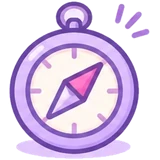
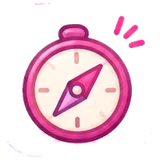
Agenda: íconos nuevos de Jennifer para Recursos de Rosina, corazón, play, portátil, 123, brújula, disquete y flecha del menú; auditoría del ecosistema Google (#518)
Claude-Session: https://claude.ai/code/session_01U9SAsfVct6L94yoocG63si

diff --git a/js/agenda/iconos.js b/js/agenda/iconos.js
@@ -45,7 +45,7 @@
   /* Íconos dibujados por Sara (31-oct-2026) para los botones de acción: si la acción tiene dibujo se usa la imagen; las demás siguen con el ícono de línea */
   var IMG = { papelera: 'eliminar', mas: 'agregar', imprimir: 'imprimir', bajar: 'descargar', subir: 'subir', calendario: 'calendario', mic: 'dictar', lapiz: 'lapiz', nube: 'nube', lupa: 'buscar', reloj: 'reloj', alerta: 'alerta', moneda: 'moneda', candado: 'candado', borrador: 'borrador', deshacer: 'deshacer', paleta: 'paleta', camara: 'camara', estrella: 'estrella', sol: 'bombilla', config: 'config-centrado', etiqueta: 'promo', hoja: 'documento', llave: 'gancho', ovillo: 'ovillo', regalo: 'regalo', camion: 'camion', caja: 'camion', grafica: 'grafica', recibo: 'recibo', bolsa: 'bolsa', casa: 'casa', tarjeta: 'tarjeta', calculadora: 'calculadora', diana: 'diana', contactos: 'contactos', libro: 'libro', camisa: 'camisa', tendencia: 'tendencia', bandera: 'bandera', persona: 'persona', globo: 'globo', birrete: 'birrete', flor: 'flor', corazon: 'corazon', play: 'play', portatil: 'portatil', numeral: 'numeral', brujula: 'brujula', disco: 'disco' };
   function svg(nombre, grande) {
-    if (IMG[nombre] && !grande) { var im = document.createElement('img'); im.src = '/img/agenda/menu/btn-' + IMG[nombre] + '.webp?v=8'; im.className = 'ic-l ic-img'; im.dataset.ic = nombre; im.alt = ''; im.setAttribute('aria-hidden', 'true'); im.width = 28; im.height = 28; im.decoding = 'async'; return im; }
+    if (IMG[nombre] && !grande) { var im = document.createElement('img'); im.src = '/img/agenda/menu/btn-' + IMG[nombre] + '.webp?v=9'; im.className = 'ic-l ic-img'; im.dataset.ic = nombre; im.alt = ''; im.setAttribute('aria-hidden', 'true'); im.width = 28; im.height = 28; im.decoding = 'async'; return im; }
     var s = document.createElementNS('http://www.w3.org/2000/svg', 'svg'); s.setAttribute('viewBox', '0 0 24 24'); s.setAttribute('class', 'ic-l' + (grande ? ' ic-l-g' : '')); s.setAttribute('data-ic', nombre); s.setAttribute('aria-hidden', 'true'); s.setAttribute('focusable', 'false');
     var p = document.createElementNS('http://www.w3.org/2000/svg', 'path'); p.setAttribute('d', P[nombre]); s.appendChild(p); return s;
   }
@@ -93,6 +93,6 @@
   /* de(texto): el ícono de línea que corresponde al emoji con que empieza un texto (para las tarjetas de la vista de sección); si no hay, el de «hoja» */
   /* Íconos dibujados de las hojas (31-oct-2026, diseño de Sara): hoja(id, texto) devuelve el dibujo de la hoja o, si aún no lo tiene, el ícono de línea */
   var HOJAS_IMG = { 'indice-agenda': 1, 'planeador-dia': 1, 'portada-agenda': 1, 'aprende-compra': 1, 'panel-agenda': 1, 'tablero-agenda': 1, 'vision-anio': 1, 'prioridades-mes': 1, 'ficha-proyecto': 1, 'semana-tejiendo': 1, 'proyectos-fila': 1, 'coleccion-patrones': 1, 'anio-tejiendo': 1, 'lo-que-aprendi': 1, 'mis-ideas': 1, 'disena-patron': 1, 'prendas-medida': 1, 'hoja-puntos': 1, 'inventario-lanas': 1, 'lista-compras': 1, 'control-pedidos': 1, 'mis-clientas': 1, 'ventas-mes': 1, 'catalogo-precios': 1, 'ferias-mercados': 1, 'contactos': 1, 'gastos-negocio': 1, 'mis-agujas': 1, 'recursos-rosina': 1, 'fin-negocio': 1, 'fin-resumen': 1, 'fin-movimientos': 1, 'fin-presupuesto': 1, 'fin-fijos': 1, 'fin-tcredito': 1, 'fin-analisis': 1, 'calendario-anual': 1, 'fechas-especiales': 1, 'diario-tejido': 1, 'registro-pausas': 1 };
-  function hoja(id, texto) { if (HOJAS_IMG[id]) { var im = document.createElement('img'); im.src = '/img/agenda/hojas/' + id + '.webp?v=5'; im.alt = ''; im.className = 'ic-hoja'; im.width = 56; im.height = 56; im.setAttribute('aria-hidden', 'true'); im.decoding = 'async'; return im; } return window.lrIconos.de(texto); }
+  function hoja(id, texto) { if (HOJAS_IMG[id]) { var im = document.createElement('img'); im.src = '/img/agenda/hojas/' + id + '.webp?v=6'; im.alt = ''; im.className = 'ic-hoja'; im.width = 56; im.height = 56; im.setAttribute('aria-hidden', 'true'); im.decoding = 'async'; return im; } return window.lrIconos.de(texto); }
   window.lrIconos = { hoja: hoja, pasada: pasada, por: function (n) { return svg(P[n] ? n : 'hoja', false); }, de: function (t) { var m = String(t || '').match(RE); var n = m && DE[clave(m[2])]; return svg(n && !QUITAR[clave(m[2])] ? n : 'hoja', false); } };
 })();

diff --git a/agenda-rosina.html b/agenda-rosina.html
@@ -65,7 +65,7 @@ j=d.createElement(s),dl=l!='dataLayer'?'&l='+l:'';j.async=true;j.src=
 <link rel="stylesheet" href="/css/agenda-movil.css?v=18">
 <link rel="stylesheet" href="/css/agenda-idioma.css?v=2">
 <link rel="stylesheet" href="/css/agenda-pantalla.css?v=11">
-<link rel="stylesheet" href="/css/agenda-menu.css?v=2">
+<link rel="stylesheet" href="/css/agenda-menu.css?v=3">
 <style>
 :root {
   --rosa-principal: #E74E96; --rosa-medio: #F28FC0; --rosa-suave: #FBE4EF;
@@ -4298,7 +4298,7 @@ import { haySesionGuardada, obtenerCliente } from '/js/cuenta.js';
 <script src="/js/agenda/voz.js?v=4" defer></script>
 <script src="/js/agenda/color-casilla.js?v=1" defer></script>
 <script src="/js/agenda/recursos-datos.js?v=3" defer></script>
-<script src="/js/agenda/recursos.js?v=7" defer></script>
+<script src="/js/agenda/recursos.js?v=8" defer></script>
 <script src="/js/agenda/herramientas-abajo.js?v=1" defer></script>
 <script src="/js/agenda/lupa.js?v=1" defer></script>
 <script src="/js/agenda/patron.js?v=1" defer></script>
@@ -4306,9 +4306,9 @@ import { haySesionGuardada, obtenerCliente } from '/js/cuenta.js';
 <script src="/js/agenda/planeador.js?v=2" defer></script>
 <script src="/js/agenda/vacios.js?v=4" defer></script>
 <script src="/js/agenda/panel.js?v=28" defer></script>
-<script src="/js/agenda/iconos.js?v=28" defer></script>
+<script src="/js/agenda/iconos.js?v=29" defer></script>
 <script src="/js/agenda/colores-seccion.js?v=3" defer></script>
-<script src="/js/agenda/menu-lateral.js?v=2" defer></script>
+<script src="/js/agenda/menu-lateral.js?v=3" defer></script>
 <script src="/js/agenda/metas-ventas.js?v=4" defer></script>
 <script src="/js/agenda/graficas.js?v=5" defer></script>
 <script src="/js/agenda/clientas-historial.js?v=2" defer></script>

diff --git a/js/agenda/menu-lateral.js b/js/agenda/menu-lateral.js
@@ -19,7 +19,9 @@
     return ancho ? 'abierto' : 'riel';
   }
   var SVG = function (d) { return '<svg viewBox="0 0 24 24" width="20" height="20" fill="none" stroke="currentColor" stroke-width="1.8" stroke-linecap="round" stroke-linejoin="round" aria-hidden="true" focusable="false">' + d + '</svg>'; };
-  var IC_OCULTAR = SVG('<path d="M15 6l-6 6 6 6"/>'), IC_MOSTRAR = SVG('<path d="M9 6l6 6-6 6"/>'), IC_MENU = SVG('<path d="M4 7h16M4 12h16M4 17h16"/>');
+  /* la flecha es un dibujo de Jennifer (3-nov-2026); «mostrar» es la misma volteada */
+  var FLECHA = function (voltear) { return '<img class="mt-ic' + (voltear ? ' voltear' : '') + '" src="/img/agenda/menu/btn-flecha-izq.webp?v=1" alt="" width="22" height="22" aria-hidden="true" decoding="async">'; };
+  var IC_OCULTAR = FLECHA(false), IC_MOSTRAR = FLECHA(true), IC_MENU = SVG('<path d="M4 7h16M4 12h16M4 17h16"/>');
   var toggle = null, abrir = null;
   function crear() {
     if (!toggle || !nav.contains(toggle)) {

diff --git a/js/agenda/recursos.js b/js/agenda/recursos.js
@@ -18,7 +18,10 @@
     pestanas.forEach(function (b) { var on = b.dataset.rr === cual; b.setAttribute('aria-selected', String(on)); });
     hoja.querySelectorAll('.rr-panel').forEach(function (p) { p.hidden = p.id !== 'rr-' + cual; });
   }
-  pestanas.forEach(function (b) { b.addEventListener('click', function () { mostrar(b.dataset.rr); }); });
+  pestanas.forEach(function (b) {   /* cada pestaña lleva su dibujo (3-nov-2026, íconos de Jennifer) */
+    if (!b.querySelector('.rr-ic')) b.insertAdjacentHTML('afterbegin', '<img class="rr-ic" src="/img/agenda/recursos/rr-' + b.dataset.rr + '.webp?v=1" alt="" width="28" height="28" aria-hidden="true" decoding="async">');
+    b.addEventListener('click', function () { mostrar(b.dataset.rr); });
+  });
 
   /* ---------- glosario ---------- */
   var gl = document.getElementById('rr-glosario'), cat = 'todas', texto = '';

diff --git a/css/agenda-menu.css b/css/agenda-menu.css
@@ -30,3 +30,9 @@
 }
 @media (min-width: 821px) and (max-width: 1100px) and (min-height: 521px) { body .agenda-layout[data-menu="abierto"] { grid-template-columns: 220px minmax(0, 1fr); } }
 @media print { .menu-toggle, .menu-abrir { display: none !important; } }
+
+/* Íconos dibujados de Recursos de Rosina y la flecha del menú (3-nov-2026) */
+#recursos-rosina .rr-pestanas button { display: inline-flex; align-items: center; gap: 8px; padding-left: 12px; }
+#recursos-rosina .rr-pestanas .rr-ic { width: 28px; height: 28px; flex: none; }
+.menu-toggle .mt-ic { width: 22px; height: 22px; flex: none; }
+.menu-toggle .mt-ic.voltear { transform: scaleX(-1); }

diff --git a/herramientas/agenda-auditoria/AUDITORIA-GOOGLE.md b/herramientas/agenda-auditoria/AUDITORIA-GOOGLE.md
@@ -1,0 +1,102 @@
+# Ecosistema de integraciones con Google — auditoría y plan (3-nov-2026)
+
+Etapa **solo de auditoría y planificación**: no se modificó código, permisos, datos ni conexiones. Fuentes: código de `js/agenda/google-calendar.js`, `drive-sync.js`, `drive-merge.js`,
+las funciones `google-calendar.ts` y `google-drive.ts`, la base de Supabase (solo estructura y conteos, sin correos ni contenido) y los documentos del repositorio.
+
+**Qué no se pudo verificar desde aquí:** el comportamiento contra los servidores reales de Google (la prueba de dos aparatos con una cuenta de Google real sigue pendiente), el estado de
+publicación de la pantalla de consentimiento en Google Cloud, y las cuotas exactas vigentes. Lo que dice este documento sobre cuotas, costos y verificación de Google viene de lo
+que se conoce de la documentación pública y **debe confirmarse en la consola de Google Cloud y en la documentación oficial antes de decidir**.
+
+## 1. Auditoría de lo que ya existe
+
+### Google Calendar — estado: implementado, con una prueba real parcial
+| Aspecto | Hallazgo |
+|---|---|
+| Conexión | OAuth con permiso **no sensible** `calendar.app.created`: crea un calendario aparte «Agenda para tejedoras» y solo toca ese. El permiso se guarda **cifrado (AES-GCM)** y la función valida la sesión de cada usuaria. Desconectar borra el calendario, revoca el permiso y borra lo guardado. |
+| Qué envía | Fechas de: entrega y envío de pedidos, proyectos, fichas de proyecto, fechas especiales, cumpleaños de clientas y ferias (`window.lrAgenda.eventos()`). Eventos de todo el día con recordatorio, repetición anual si aplica. |
+| Qué NO envía | Tareas y notas del Planeador del día, clases pedidas en «Aprende y compra», diario, pausas activas, vencimientos de gastos fijos y deudas, vencimiento de la membresía. |
+| Crear / actualizar / borrar | Los tres existen (por «clave» + huella de contenido). Hay trampas de seguridad: no sincroniza una agenda sin fechas y no borra de golpe más de 3 fechas sin confirmación. La lógica está probada con función simulada (`probar_agenda_google_calendar.py`, `probar_funcion.mjs`). |
+| Evidencia real | En la base hay **1 cuenta conectada** con sincronización reciente y **2 eventos** registrados: la creación funciona en la práctica. No hay evidencia real de actualizar ni de borrar. |
+| Sentido | **Una vía** (agenda → Google). Si la persona edita un evento en Google, la próxima sincronización lo pisa si cambió en la agenda; no se lee nada de Google. |
+| Seguridad en base | Las 3 tablas de Google tienen seguridad por filas activada, **sin políticas** y sin permisos para `anon` ni `authenticated`: solo la función con llave de servicio las toca. Correcto. |
+
+Hallazgos y riesgos (de la lectura del código; ninguno comprobado en vivo):
+1. **Recordatorio mal descrito.** El texto dice «la tarde anterior», pero el recordatorio es 900 min antes de un evento de todo el día: queda a las 9:00 a. m. del día anterior.
+2. **Calendario huérfano al reconectar.** Al volver a conectar sin haber desconectado, se crea un calendario nuevo y el anterior queda en Google de la persona (verificar con una prueba real).
+3. **Tope silencioso de 300 eventos.** Lo que pase de 300 se ignora sin avisar.
+4. **Primera sincronización larga.** Cada evento es una llamada seguida; con cientos de eventos podría acercarse al tiempo máximo de la función y a límites de ritmo de Google. Los fallos se reintentan en la siguiente sincronización.
+5. **Claves por posición.** Las fechas de pedidos se identifican por el número de fila; al borrar una ficha las siguientes suben y la función las «actualiza» (no duplica, pero genera muchas llamadas).
+6. **Una sola llave para Calendar y Drive.** Los permisos de las dos conexiones se cifran con el mismo secreto (`CALENDAR_TOKEN_KEY`); conviene separarlos en algún momento.
+7. **Mensajes de error genéricos** («Algunas fechas no se pudieron sincronizar») y sin historial de la última falla.
+
+### Google Drive — estado: implementado, probado solo con Google simulado
+| Aspecto | Hallazgo |
+|---|---|
+| Conexión | OAuth con `drive.appdata` (no sensible; carpeta **oculta** de la app). La función solo consigue el permiso y entrega una llave de ~1 hora; **los datos van directo del navegador al Drive de la persona**, no pasan por nuestros servidores. |
+| Qué guarda | `agenda.json` con **toda** la agenda (incluidos los dibujos y sus fotos desde el cambio a IndexedDB) y las últimas 5 versiones. Mezcla de tres vías entre aparatos sin perder datos (30 pruebas de lógica + 39 con Drive simulado + 39 de dibujos). |
+| Recuperación | Existe: «Versiones anteriores» con «Restaurar», y «Borrar mi agenda de Drive». |
+| Excel y PDF a Drive | **No existe.** Excel, el informe del mes y los PDF se descargan al dispositivo; nada de eso se sube a Drive. |
+| Archivos visibles para la persona | **No.** La carpeta oculta no aparece en su Drive: no puede abrir, mover ni compartir esas copias; solo la agenda las usa. Es seguro pero no sirve como «mis archivos». |
+| Seguridad en base | Igual que Calendar: seguridad por filas sin políticas, nadie con llave pública lee los permisos. |
+
+Hallazgos y riesgos:
+1. **Riesgo nuevo por las fotos grandes.** Desde el cambio a IndexedDB las fotos se guardan a 1600 px. `agenda.json` puede pasar de varios MB, y la subida usa el modo «multipart», pensado para archivos de unos 5 MB o menos; además **cada cambio sube el archivo completo** y cada versión anterior es otra copia completa. Para quien dibuja mucho: más consumo de datos móviles y de espacio en su Drive. **Verificar con una cuenta real y, si se confirma, separar las fotos en archivos propios** (cambio mediano).
+2. **Sin prueba real en dos aparatos** (pendiente de Jennifer).
+3. **La llave de 1 hora vive en el navegador.** Está limitada a la carpeta oculta de la app, pero una falla de seguridad de la página (XSS) la expondría; el riesgo está acotado.
+4. **Estado de la pantalla de consentimiento.** Si en Google Cloud la app sigue en modo «Pruebas», los permisos de renovación caducan a los 7 días y hay tope de 100 usuarias de prueba. Con permisos no sensibles se puede «Publicar» sin verificación. **Hay que revisarlo en la consola** (no se puede ver desde aquí).
+5. **Solo un archivo principal.** Si alguien edita `agenda.json` a mano o lo corrompe no hay validación del formato más allá de «es un objeto».
+
+## 2. Matriz de evaluación
+
+Clasificación: **IV** implementada y verificada · **P** parcial · **CL** conectada pero limitada · **NI** no implementada · **NR** no recomendable por ahora.
+Complejidad: B baja, M media, A alta. Las cuotas y exigencias de verificación son lo que se conoce de la documentación pública: **confirmar antes de decidir**.
+
+| Servicio | Estado | Funciones verificadas | Funciones pendientes | Módulos que se benefician | Valor | Complejidad | Costos y límites | Prioridad |
+|---|---|---|---|---|---|---|---|---|
+| **Calendar** | **P** (funciona; verificada con función simulada y 1 cuenta real con creación) | Conectar, crear, actualizar, borrar (simulado), desconectar, trampas de seguridad | Planeador, clases, vencimientos; elegir qué tipos sincronizar; corregir recordatorio y calendario huérfano; probar actualizar/borrar en real | Pedidos, proyectos, ferias, fechas especiales, Planeador | Alto | B | Gratis; permiso no sensible; cuotas altas por defecto, ritmo por usuaria limitado | **1 (afinar)** |
+| **Drive (copia oculta)** | **CL** (conectada y probada con Google simulado) | Subir, mezclar, versiones, restaurar, borrar | Prueba real en 2 aparatos; fotos en archivos aparte; ver tamaño | Toda la agenda | Alto | M | Gratis; usa el espacio de la persona; límite de unos MB por subida multipart | **1 (verificar riesgo de tamaño)** |
+| **Drive (archivos visibles: Excel, PDF, informes)** | **NI** | — | Subir Excel/PDF a una carpeta «Agenda para tejedoras» visible; copia de seguridad que la persona pueda abrir | Informe del mes, Excel, resultados del negocio | Alto | M | Permiso `drive.file` (no sensible: solo archivos que crea la app); gratis; un permiso más que aceptar | **2** |
+| **Sheets** | **NI** | — | Exportar ventas, gastos, pedidos, inventario y presupuesto a una hoja de cálculo propia y actualizarla | Ventas, gastos, inventario de lanas, pedidos, presupuesto | Alto | M | Con `drive.file` suele bastar (no sensible; confirmar). Cuotas de escritura por minuto bajas por usuaria; gratis | **3** (después de Drive visible) |
+| **Docs** | **NI** | — | Fichas de proyecto, informes, cotizaciones y patrones editables | Ficha de proyecto, informe del mes, patrón propio | Medio | M | Igual que Sheets; plantillas y formato son trabajo de diseño | **5** |
+| **Gmail** | **NI** | — | Enviar informes y cotizaciones; mensajes a clientas | Pedidos, clientas, informe del mes | Medio | B (enlace) / A (envío real) | El permiso de **enviar correos desde su Gmail es sensible** (verificación de Google); leer correos es restringido (auditoría de seguridad anual, costosa): **no** | **Enlace «Escribir por correo» con el mensaje ya redactado (sin permisos): 4. Envío real: NR por ahora** |
+| **Forms** | **NI** | — | Formularios de pedido, inscripciones, encuestas | Academia, pedidos personalizados | Bajo | M | Permisos sensibles probables; **ya existen** formularios propios de Lana Rosa con base de datos | **NR por ahora** |
+| **Contacts** | **NI** | — | Sincronizar clientas, proveedoras y colaboradoras | Mis clientas, Contactos | Medio | M | Permiso sensible de contactos (verificación); riesgo de privacidad alto: son datos de terceras personas | **NR por ahora** (si se hace: solo exportar a archivo `.vcf`/CSV, sin permiso) |
+| **Tasks** | **NI** | — | Tareas y recordatorios en Google | Planeador del día | Bajo | B | Permiso sensible; duplica el Planeador propio | **NR por ahora** |
+| **Meet** | **NI** | — | Enlace de reunión para clases virtuales y asesorías | Academia, clases personalizadas | Medio | M | Se hace creando el evento de Calendar con enlace de Meet (confirmar si `calendar.app.created` lo permite); los límites de tiempo de Meet gratuito para grupos hay que confirmarlos | **6** (cuando haya clases virtuales) |
+
+## 3. Aprovechamiento por línea de negocio
+
+Aclaración importante: la **Agenda para tejedoras** usa la cuenta de Google **de cada usuaria**. Las integraciones de la propia Lana Rosa (por ejemplo, calendario de la Academia, inscripciones, correos a estudiantes) serían otro tema: usarían la cuenta de Google de la empresa y otra arquitectura.
+
+- **Productos tejidos y amigurumis:** entregas y envíos en Calendar (ya existe), informe del mes y resultados como Excel/PDF en un Drive visible, y un enlace de correo con el mensaje de seguimiento de pedido ya escrito (sin permisos).
+- **Mercería:** exportar inventario de lanas, compras y proveedoras a Sheets; hoy solo existe el Excel descargable y los avisos dentro de la agenda.
+- **Academia:** clases pedidas como eventos de Calendar, con enlace de Meet cuando sean virtuales; las inscripciones ya existen como lista de espera en la base, así que no hace falta Forms.
+- **Aplicaciones y herramientas digitales:** copias de seguridad que la persona pueda abrir (Drive visible), exportaciones a Sheets y un informe de gestión en Docs/PDF.
+
+## 4. «Conexiones e integraciones» (centro de conexiones)
+
+**Recomendación: sí, y es la pieza que menos cuesta.** Hoy hay dos tarjetas sueltas en ⚙ Configuración → «Conectar con Google». Ya existen casi todos los datos que haría falta:
+estado, correo conectado, última sincronización, conectar y desconectar (en cada servicio). Faltan: permisos explicados, qué se sincroniza (con interruptores), último error, exportaciones y copias.
+
+Propuesta por etapas, cada una a aprobar por separado:
+1. **Hoja «Conexiones e integraciones»** con una tarjeta por servicio (estado, correo, última vez, errores, conectar/desconectar, qué permiso se pidió y qué NO puede hacer). Solo reorganiza lo existente.
+2. **Interruptores de qué sincronizar** en Calendar (pedidos, envíos, proyectos, fechas especiales, ferias, cumpleaños) y en Drive (incluir fotos de dibujos o no).
+3. **Registro de exportaciones y copias** (cuándo se hizo la última copia, cuántas versiones hay, descargar la última).
+4. **Drive visible** para Excel, PDF y copias abribles; después Sheets.
+
+Principios: cada persona conserva el control; nada se conecta ni se sube solo; cada permiso se explica en lenguaje claro; «Desconectar» siempre disponible y borra lo que la app creó.
+
+## 5. Prioridad recomendada
+
+1. **Antes de crear nada nuevo:** verificar con una cuenta real (a) dos aparatos con Drive, (b) el riesgo de tamaño del archivo con fotos, (c) actualizar y borrar eventos en Calendar y reconectar sin desconectar, y (d) que la pantalla de consentimiento esté **publicada** y no en «Pruebas».
+2. Arreglos pequeños de Calendar (texto del recordatorio, calendario huérfano, aviso de 300 eventos).
+3. Hoja «Conexiones e integraciones» (etapa 1).
+4. Drive visible (Excel, PDF, copias abribles) con permiso `drive.file`.
+5. Sheets, enlace de correo, Meet, Docs, en ese orden. Forms, Contacts, Tasks y envío real por Gmail: no por ahora.
+
+## 6. Decisiones que necesito de Jennifer
+
+- Confirmar en Google Cloud el estado de publicación de la app (Pruebas o Producción) y mirar el uso de cuotas.
+- Hacer la prueba real de dos aparatos con Drive y de Calendar (actualizar y borrar).
+- Elegir qué etapa de la sección 4 sigue y si el Drive visible es prioridad.
+- Decidir si algún día se quiere el envío real por Gmail (implica verificación de Google y más tiempo).

diff --git a/PENDIENTES.md b/PENDIENTES.md
@@ -10,6 +10,8 @@ Marca con `[x]` lo que ya esté hecho y agrega abajo lo nuevo. El historial comp
 ## ⭐ Plus para emprendedoras (plan acordado con Sara, 31-oct-2026)
 - [x] Etapa 1: avisos de hoy y consejo de Rosina en Mi panel (gratis).
 - [x] **Dibujos en IndexedDB** (3-nov-2026; hecho, probado con 33 comprobaciones de pérdida de datos y las demás pruebas de la agenda; pendiente de publicar con el OK de Sara y de probar en iPhone/Samsung reales). **Publicado #516 el 3-nov-2026; `rosina-web` v58 desplegada el 3-nov-2026** (`GUIA_AGENDA` explica que los dibujos y sus fotos van en IndexedDB; lo desplegado se comparó con el repositorio y es igual salvo comentarios; falta probarla con una pregunta real).
+- [x] **Auditoría del ecosistema Google (3-nov-2026, solo lectura; documento `herramientas/agenda-auditoria/AUDITORIA-GOOGLE.md`):** pendiente que Jennifer apruebe el plan; antes de crear nada: prueba real de Drive en dos aparatos y de Calendar (actualizar/borrar), revisar en Google Cloud que la app esté publicada y no en «Pruebas», y verificar el tamaño de `agenda.json` con fotos de 1600 px.
+- [ ] **Íconos de Jennifer (3-nov-2026, hechos; sin publicar):** hoja «Recursos de Rosina», sus 6 pestañas (`img/agenda/recursos/rr-*.webp`), corazón, play, portátil, 123, brújula, disquete y flecha de «Ocultar menú»; falta publicarlos con su OK.
 - [ ] Etapa 0 (la hace Sara): entrevistas con ~10 usuarias, pruebas en iPhone/Samsung/iPad, pago real de $5.000, revisión de la abogada.
 - [x] Etapa 2: meta de ventas → semanas y días; «¿cuánto necesito vender al mes?» (de pago). Hecha el 31-oct-2026; probar las fórmulas con las cifras reales de Sara.
 - [x] Etapa 3: historial por clienta (hecha el 31-oct-2026). · [x] Etapa 4: costo por producto y precio sugerido (hecha el 31-oct-2026). · [x] Etapa 5: inventario con costo y mínimo (hecha el 31-oct-2026; publicada #481; `rosina-web` v43 desplegada; falta desplegar v44, que aclara que los avisos de lanas no salen en «Avisos de hoy», junto con la etapa 6). · [x] Etapa 6: informe mensual para imprimir (hecha y publicada el 31-oct-2026, #482; `rosina-web` v44 desplegada); **2-nov-2026 se sumó**: comparación con el mes anterior bajo cada número, botón «Enviar por WhatsApp» (resumen en texto) y hoja «Informe mensual» en «Exportar a Excel» (`informe.js` v2, `exportar.js` v4; prueba `probar_agenda_informe.py` (31, ya sin depender del día del mes); **`rosina-web` v52 desplegada el 2-nov-2026**). · [x] **Metas de ahorro y planes del negocio con un solo formulario + «Agregar»** (2-nov-2026, #513; prueba `probar_agenda_metas_planes.py`; `rosina-web` **v57** desplegada el 2-nov-2026 —las v53 a v56 fueron intentos con el archivo incompleto, ya reemplazados—; el texto desplegado es igual al del repositorio salvo comentarios). **Lección: para desplegar `rosina-web` hay que enviar `nucleo.ts` e `index.ts` completos y comparar después con `get_edge_function`.**
